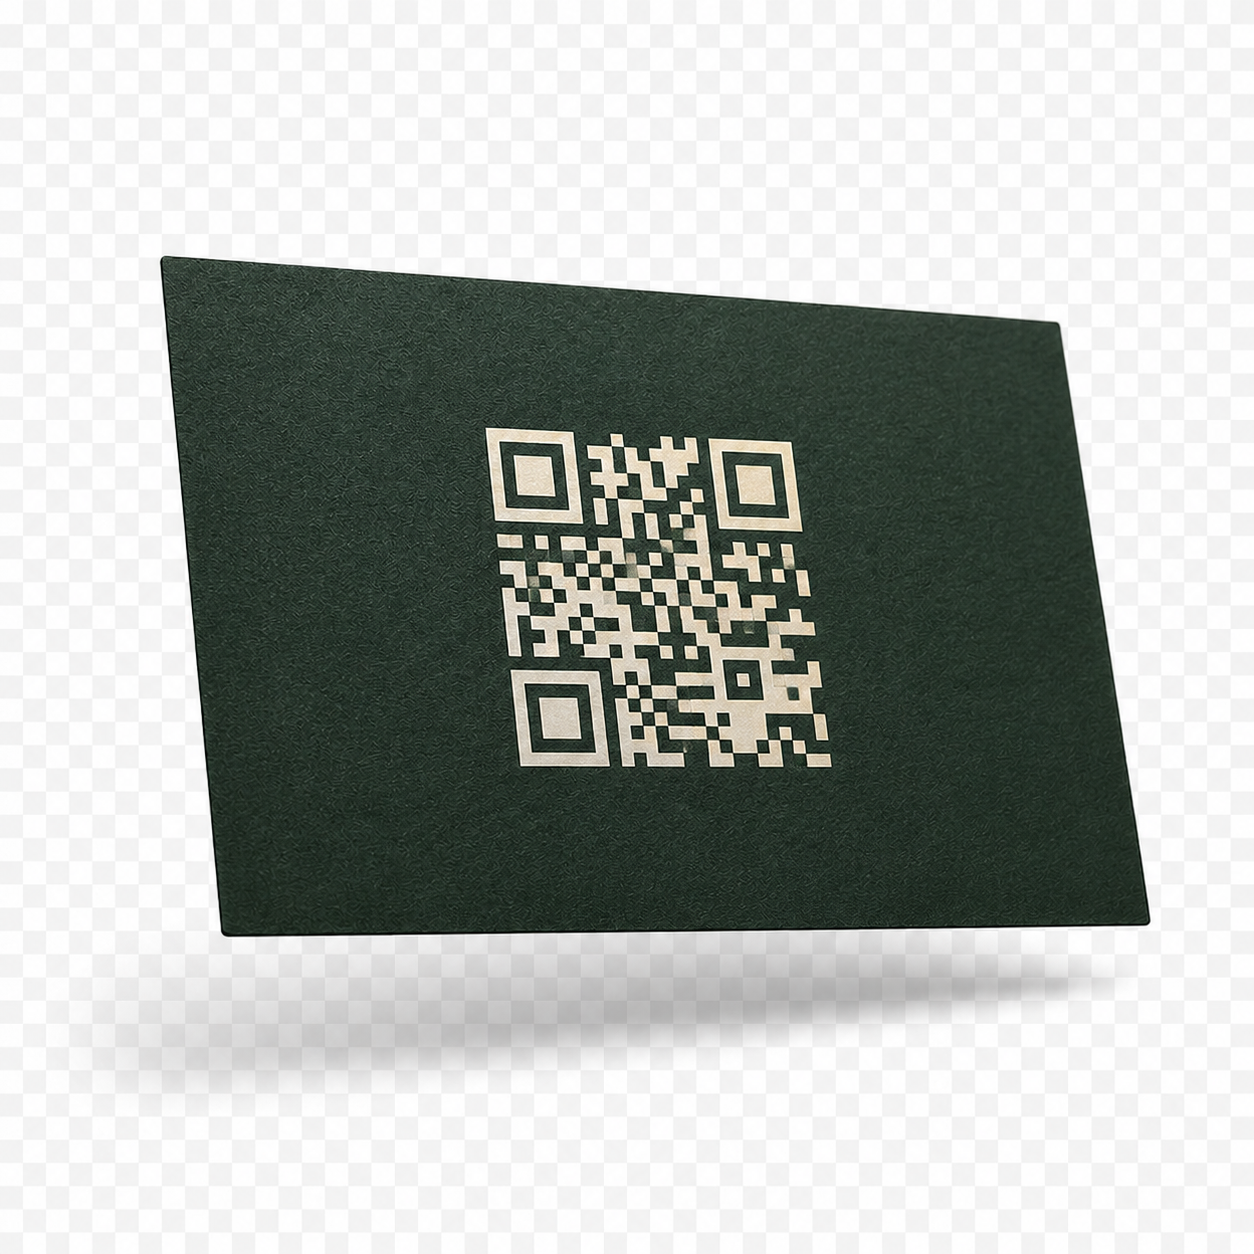
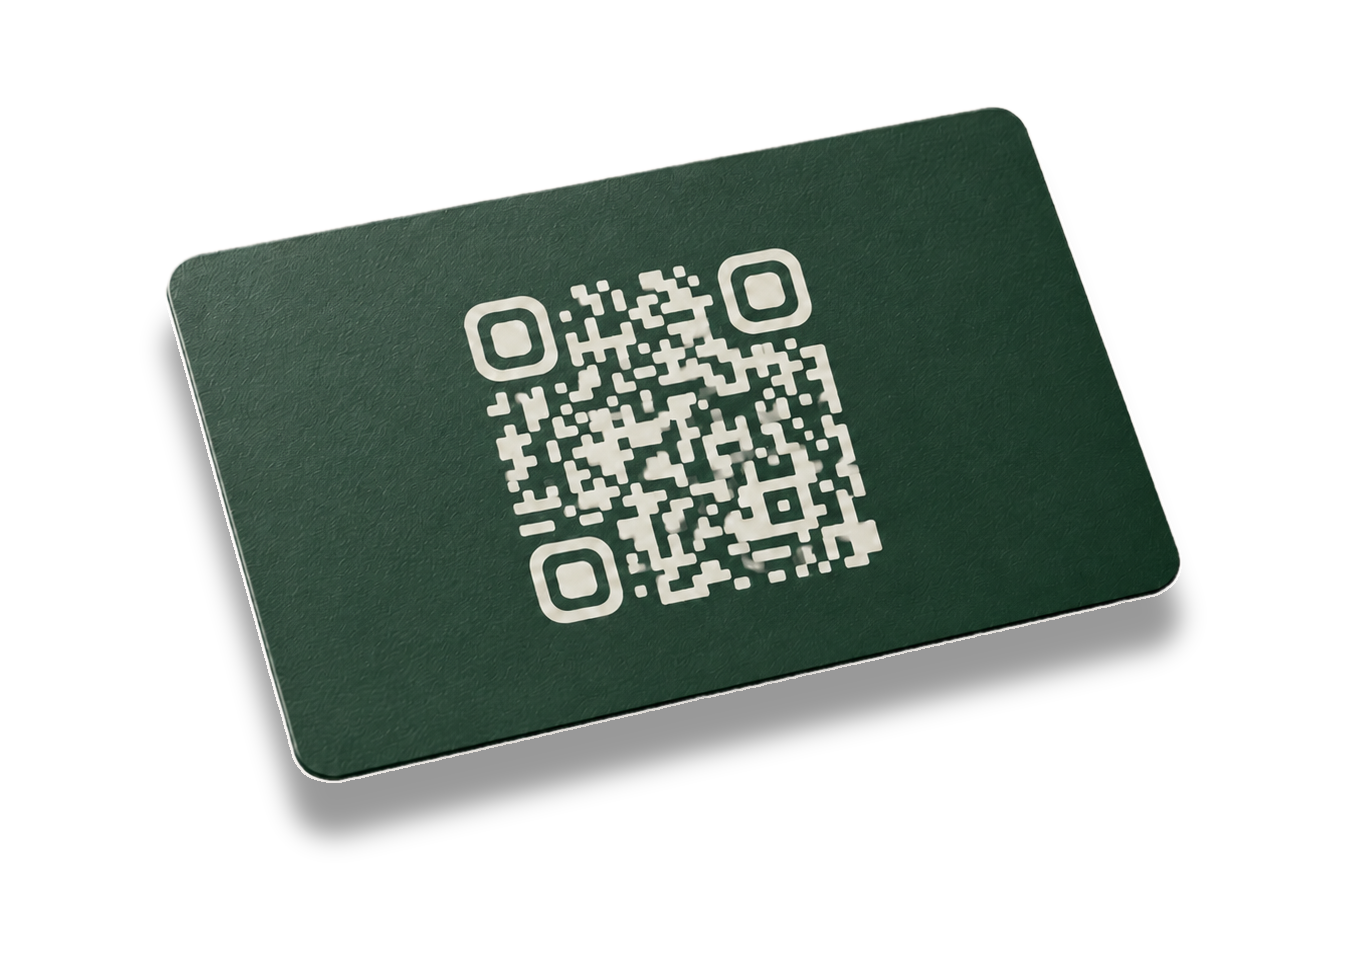
examples row 3: replace SVG QR mockup with photographic qr-card image, remove box wrapper

Changed region(s): [[0.0933, 0.0907, 0.933, 0.877]]

diff --git a/templates/public/index.html b/templates/public/index.html
@@ -81,7 +81,8 @@
 .cb-row-checks div { display:flex; align-items:center; gap:10px; font-size:14px; color:var(--text-secondary); }
 .cb-mock-card-photos { display:flex; flex-direction:column; gap:8px; align-items:center; }
 .cb-mock-photo { width:100%; max-width:380px; height:auto; display:block; }
-.cb-mock-qr-box { background:var(--bg-secondary); border:1px solid var(--border); border-radius:16px; padding:40px; display:flex; flex-direction:column; align-items:center; gap:20px; }
+.cb-qr-photo-wrap { display:flex; flex-direction:column; align-items:center; gap:20px; }
+.cb-qr-photo { width:100%; max-width:280px; height:auto; display:block; }
 .cb-example-phone-img { width:100%; max-width:320px; height:auto; }
 
 @media (max-width: 900px) {
@@ -173,20 +174,8 @@
     </div>
 
     <div class="cb-row">
-      <div class="cb-mock-qr-box">
-        <svg viewBox="0 0 120 120" width="130" height="130">
-          <rect x="4" y="4" width="34" height="34" rx="3" fill="none" stroke="#1b1a16" stroke-width="2.5"/>
-          <rect x="12" y="12" width="18" height="18" rx="1" fill="#1b1a16" opacity="0.8"/>
-          <rect x="82" y="4" width="34" height="34" rx="3" fill="none" stroke="#1b1a16" stroke-width="2.5"/>
-          <rect x="90" y="12" width="18" height="18" rx="1" fill="#1b1a16" opacity="0.8"/>
-          <rect x="4" y="82" width="34" height="34" rx="3" fill="none" stroke="#1b1a16" stroke-width="2.5"/>
-          <rect x="12" y="90" width="18" height="18" rx="1" fill="#1b1a16" opacity="0.8"/>
-          <rect x="46" y="46" width="6" height="6" fill="#1b1a16" opacity="0.6"/>
-          <rect x="56" y="56" width="6" height="6" fill="#1b1a16" opacity="0.6"/>
-          <rect x="66" y="46" width="6" height="6" fill="#1b1a16" opacity="0.6"/>
-          <rect x="76" y="56" width="6" height="6" fill="#1b1a16" opacity="0.6"/>
-          <rect x="86" y="46" width="6" height="6" fill="#1b1a16" opacity="0.6"/>
-        </svg>
+      <div class="cb-qr-photo-wrap">
+        <img src="{{ url_for('static', filename='images/qr-card.png') }}" alt="CardBranch QR code, downloadable PNG example" class="cb-qr-photo">
         <div style="text-align:center;">
           <div style="font-size:12px; font-weight:500; color:var(--text-primary);">Da Workforce</div>
           <div style="font-size:11px; color:var(--text-dim);">cardbranch.co.uk/c/da-workforce</div>
